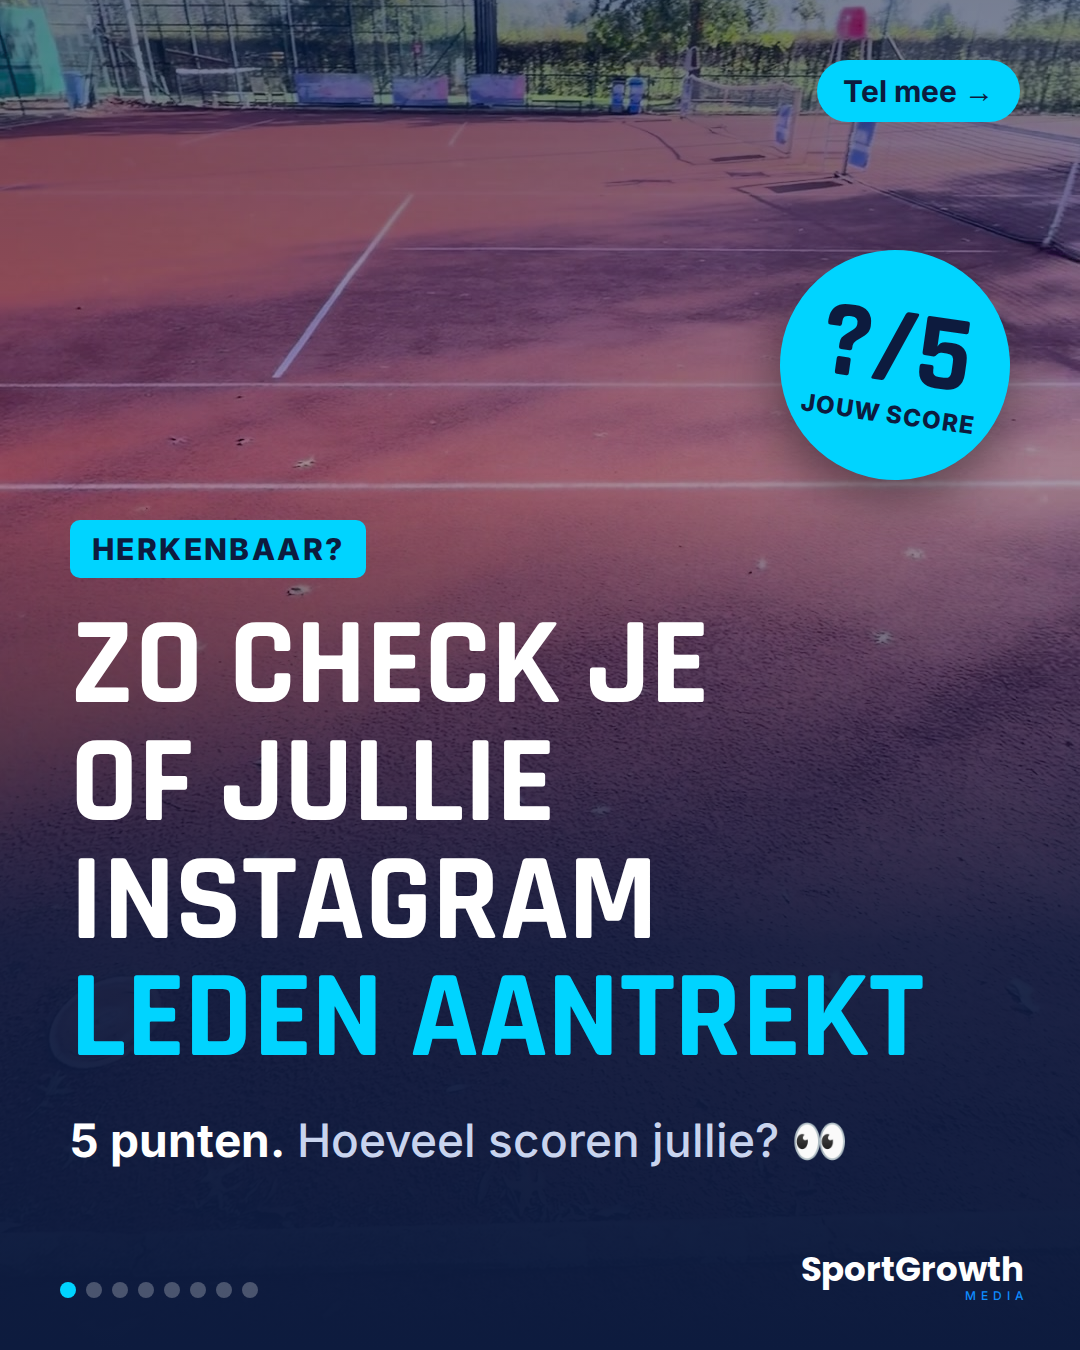
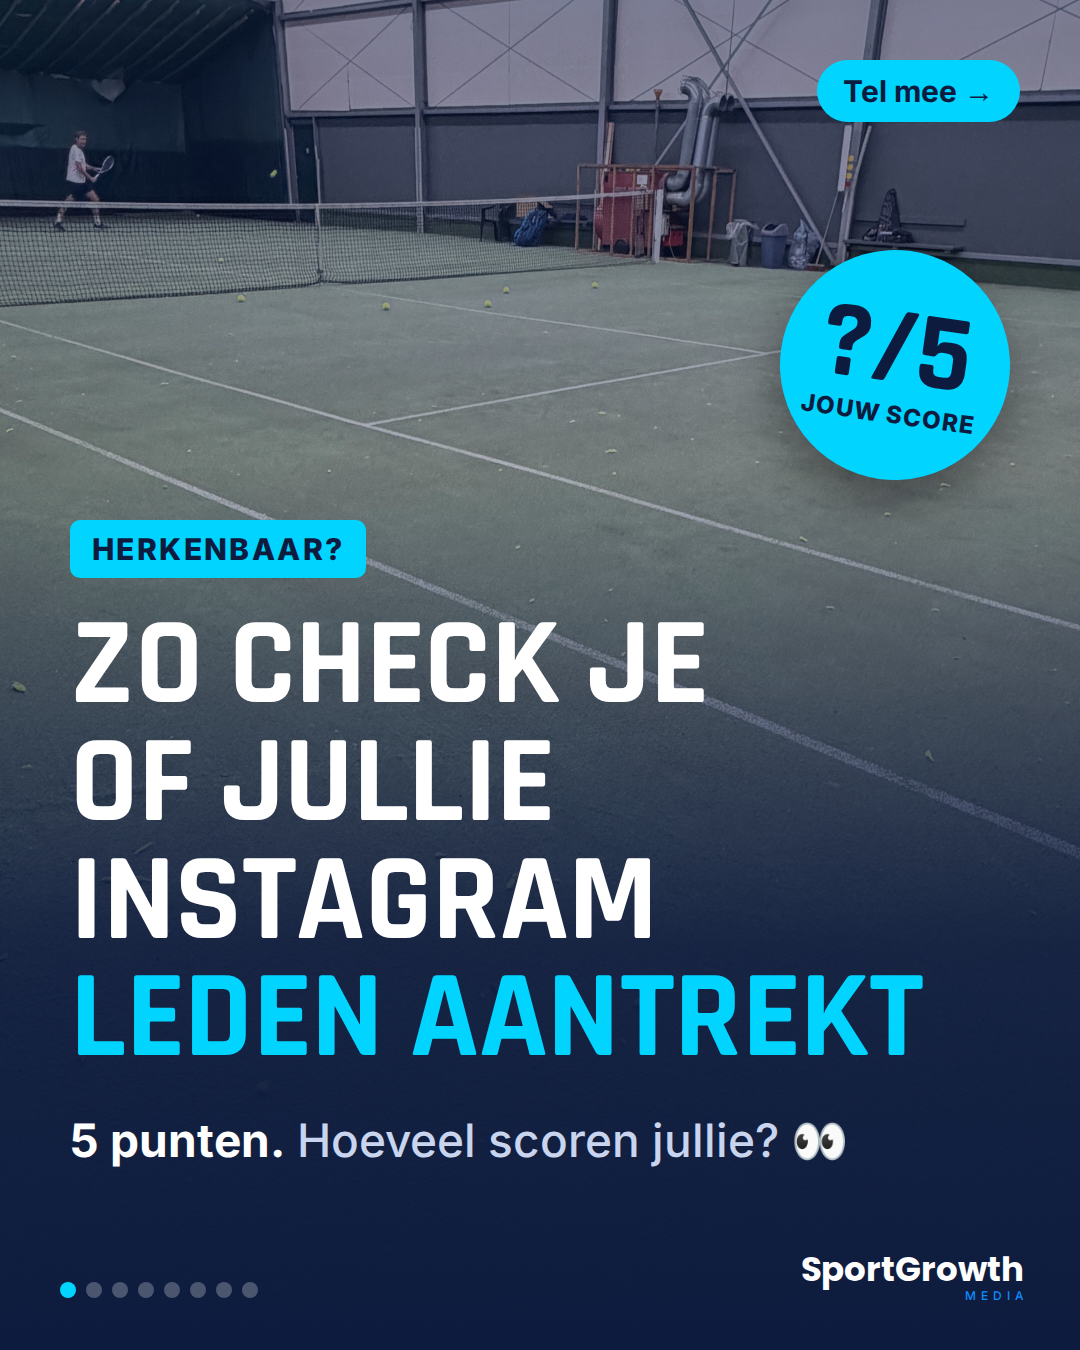
Contentsysteem: regels voor covers en profielraster; cover 19/10 met speler
Claude-Session: https://claude.ai/code/session_01QkSWZzWLTduRQtPp2zathG

diff --git a/instagram/carrousel-5-tekenen/build.js b/instagram/carrousel-5-tekenen/build.js
@@ -55,7 +55,7 @@ const slides = [];
 
 // 1 COVER
 slides.push(page(1, `
-<div class="bg" style="background-image:url(file://${B}/tennis-leeg-gravel.jpg)"></div><div class="dim"></div>
+<div class="bg" style="background-image:url(file://${B}/tennis-hal-speler.jpg);background-position:center 35%"></div><div class="dim"></div>
 <div class="swipe">Tel mee →</div>
 <div style="position:absolute;left:70px;right:70px;top:520px;display:flex;flex-direction:column;gap:30px">
 <span class="tag" style="align-self:flex-start">HERKENBAAR?</span>

diff --git a/instagram/CONTENTSYSTEEM.md b/instagram/CONTENTSYSTEEM.md
@@ -91,6 +91,15 @@ Regels:
 | "Deze zin kost je leden." | "Zo schrijf je een clubbio die leden aantrekt" |
 | "Jullie posten affiches." | "Zo bereikte een padelclub 3.367 mensen in 6 weken" |
 
+## 5c. Covers en profielraster (wat een club ziet als ze je profiel opent)
+Een club beslist in het raster of ze doorklikt. Elke cover moet op postzegelformaat (1/3 van het scherm) meteen zeggen: dit gaat over jullie club.
+1. **Clubwoord in de titel:** tennisclub, padelclub, sportclub, clubbio, leden, trainer, clubhuis, interclub.
+2. **Titel groot en kort** (max. 8 woorden), in het **midden** van de cover (tussen 25% en 75% van de hoogte), zodat de 3:4-uitsnede van het raster hem niet afsnijdt. Kleine tekst is in het raster onleesbaar: zet daar niets belangrijks in.
+3. **Clubleven in beeld:** mensen op een terrein, een vol clubhuis, een trainer, een gsm met een clubprofiel. Geen lege terreinen of netten als achtergrond tenzij het om "leeg" gaat.
+4. **Nooit twee keer dezelfde foto naast elkaar**, en afwisselen: foto-cover en effen donkerblauwe cover om beurt (dambordpatroon), zodat het raster rustig maar niet saai oogt.
+5. **Reekslabel bovenaan** (HERKENBAAR?, CLUBTIP, RESULTAAT, ZO WERKT SGM): een club ziet in één blik wat voor post het is.
+6. **Vastgezet (3 posts bovenaan):** 1) Zo werkt SGM (wat we voor een club doen), 2) Resultaat Jan Stilten, 3) Gratis analyse. Wie het profiel opent, ziet zo meteen wat SGM doet, dat het werkt, en de eerste stap.
+
 ## 6. Stories (dagelijks, 2-5 minuten)
 | Dag | Story |
 |---|---|
